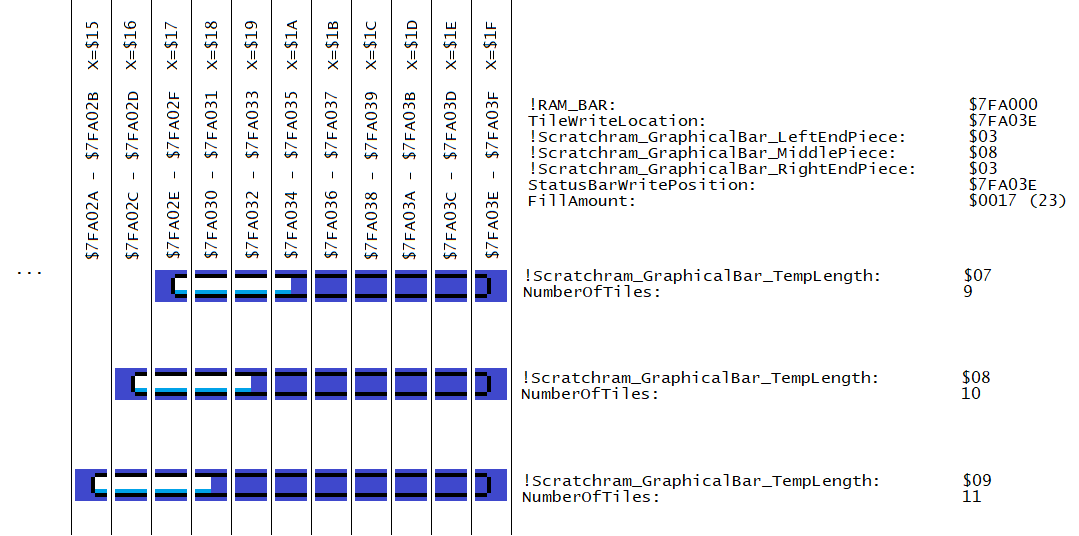
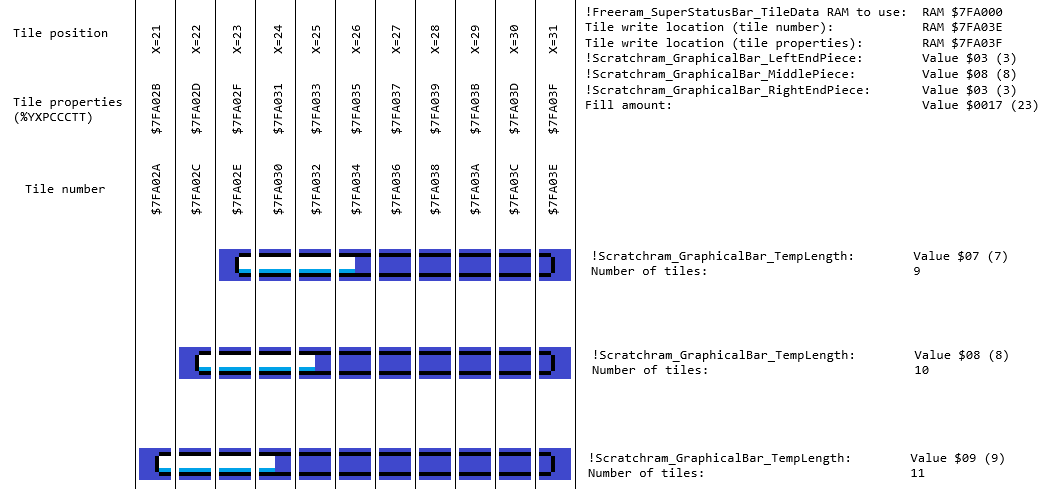
update
- Removed redundant and unused files (save for template files for future updates)
 - Updated BarExtendLeftTiles_OnStatBar.png to the new super status bar define and made things a bit more clear.
 - Mentioned that the tile conversion sample was a level - layer 3 conversion.

diff --git a/GraphicalBar_ReadmeDocumentation.html b/GraphicalBar_ReadmeDocumentation.html
@@ -1101,7 +1101,7 @@ Destroyed:
 <tr><th>Destroyed</th><th>Number of Bytes</th><th>Description</th></tr>
 <tr><td><kbd>$01</kbd></td><td style="text-align: center;">1</td><td>Used to keep track if all the middle tiles are processed.</td></tr>
 </table>
-What it looks like:
+What it looks like (&ldquo;in level - layer 3&rdquo; conversion):
 <table>
 <tr>
 <th>Left end</th>
